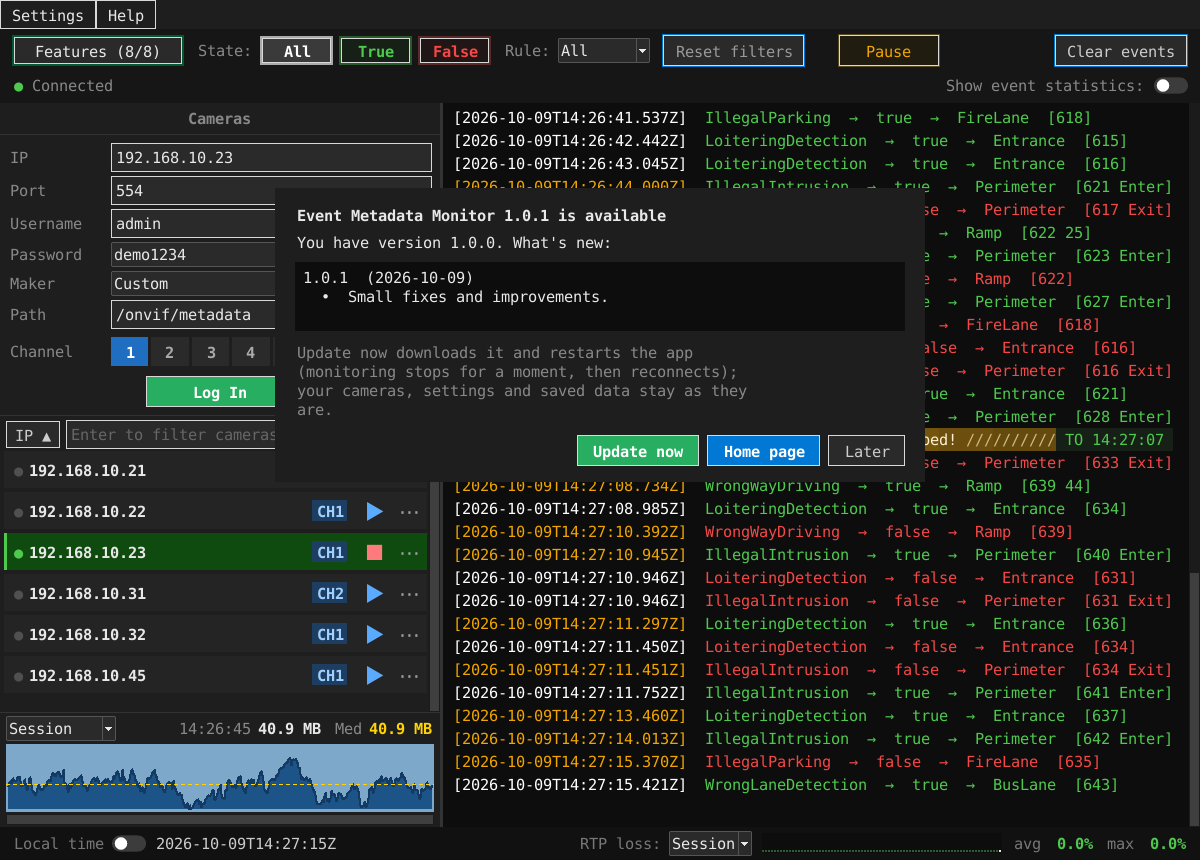
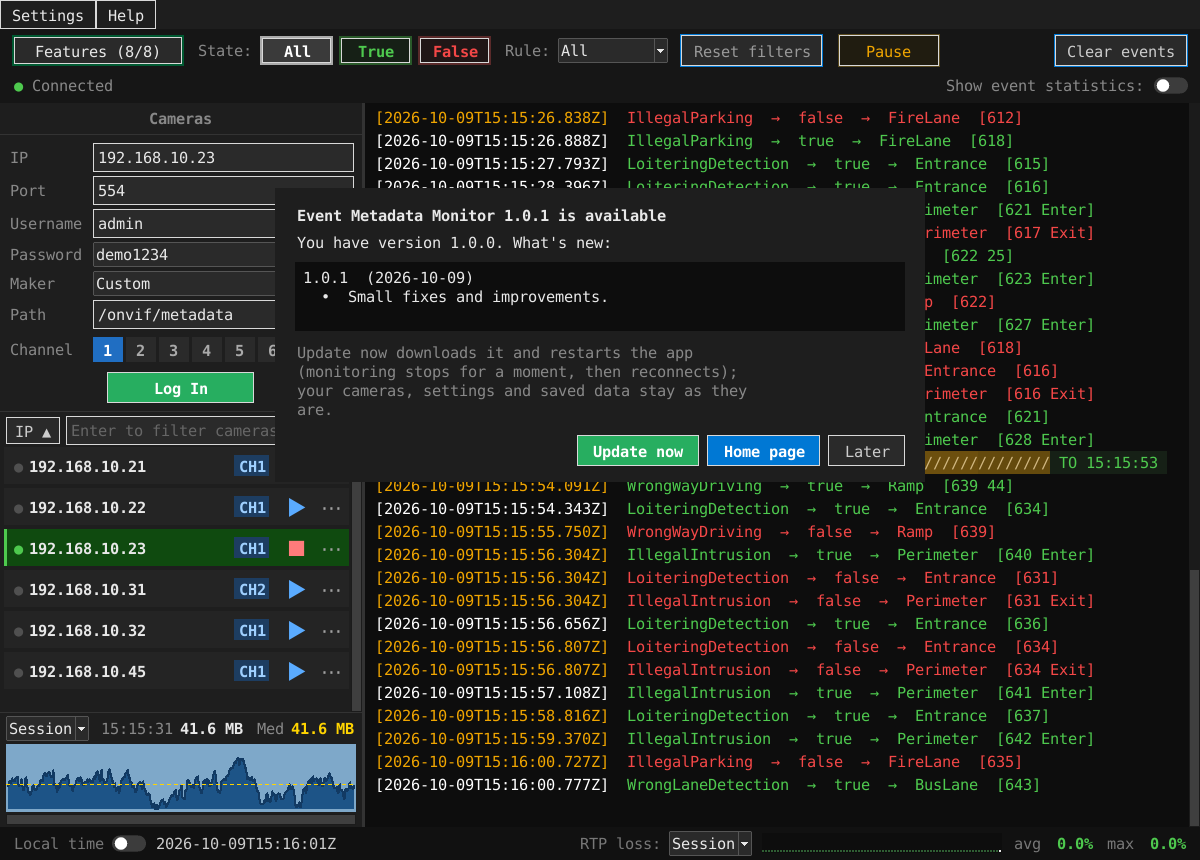
Site: screenshots and tutorial GIFs with the narrower camera panel
Claude-Session: https://claude.ai/code/session_0151LfiytW9KEK13s5v6f8Aa

diff --git a/index.html b/index.html
@@ -345,7 +345,7 @@ const DEMO_VIDEO = "media/demo.mp4";
 const DEMO_POSTER = "media/demo.jpg";
 // The screenshots' revision: tools/demo_screenshots.py sets it when it saves new
 // ones, so browsers and the Pages CDN fetch them again instead of a cached copy.
-const MEDIA_REV = "202610091427";
+const MEDIA_REV = "202610091516";
 const SCREENSHOTS = [
   ["media/screenshot-1.png", "Main window after 30 hours: cameras, live event log, memory and RTP loss"],
   ["media/screenshot-2.png", "Choose the camera's maker: the path of its metadata stream is filled in"],
